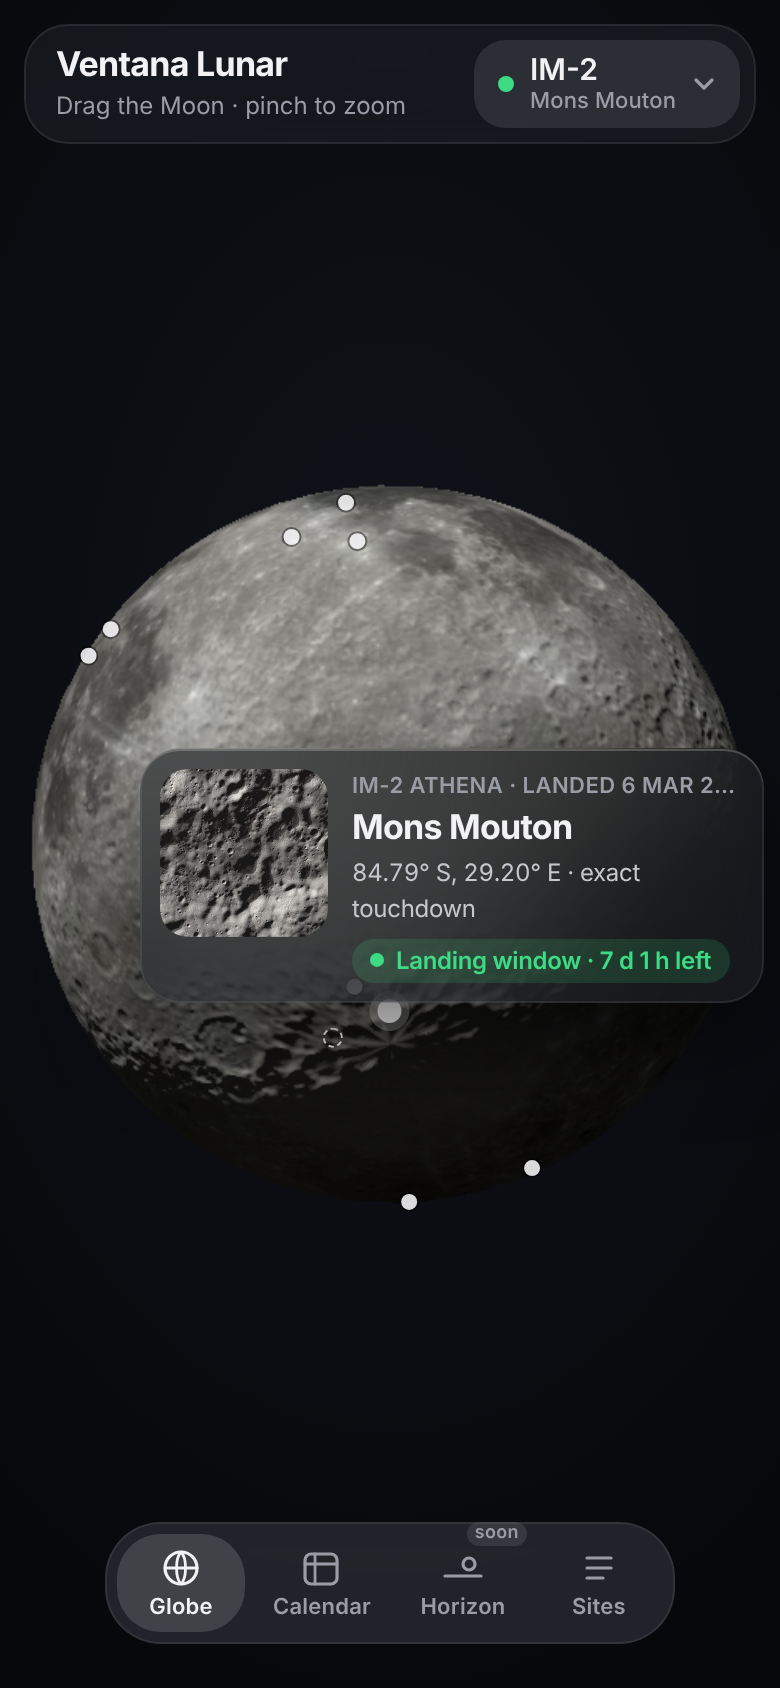
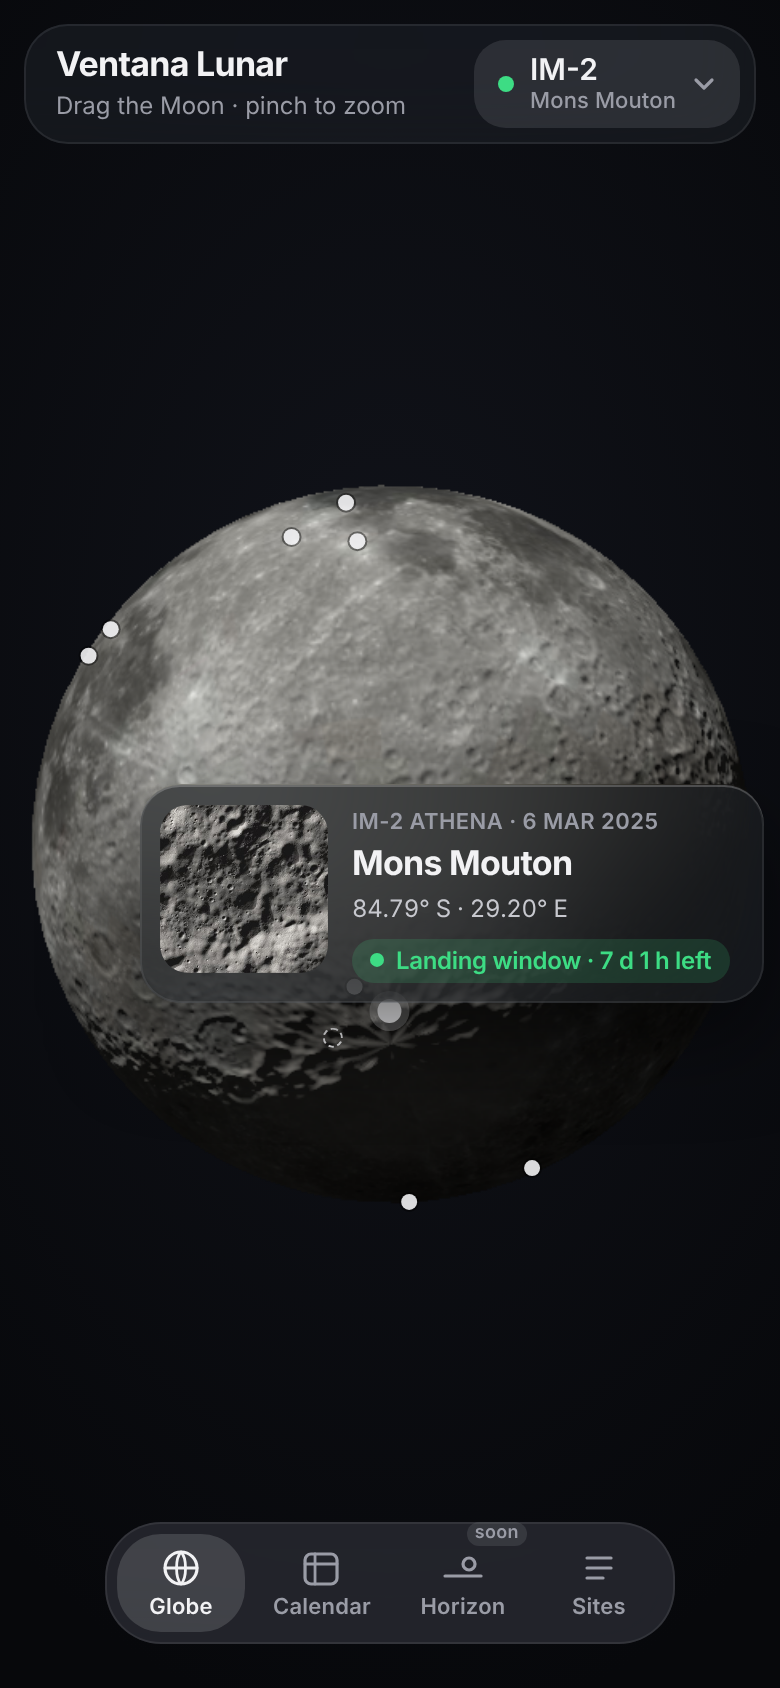
fix(web): one line per row in the phone's compact callout
On a 390 px phone the coordinate line («84.79° S, 29.20° E · exact
touchdown») wrapped to two lines and the mission line was cut with an
ellipsis. The phone now gets its own shorter wording, as canvas A shows:
the mission with the landing date and no «landed» («IM-2 Athena · 6 Mar
2025») and the coordinates alone («84.79° S · 29.20° E»), since the
marker's style already tells how exact the point is. Every text row of
the compact card is one line, with the ellipsis only as a safety net.

Each row holds both wordings and callout.css shows one per layout, so the
text never waits on script for the width. The desktop card keeps its
wording; its point may still take a second line, but only before the
precision: the coordinates are joined with no-break spaces and the lines
are balanced.

Tests: the content's short lines (unit), each phone row a single line box
and IM-2's mission not clipped at 390x844 and 360x780, and the desktop's
long point wrapping only after its coordinates (e2e). The phone callout
evidence is re-captured.

Story: VENT-29

Claude-Session: https://claude.ai/code/session_0112FN4wZEajMCyQCf5HDAev

Changed region(s): [[0.1538, 0.4313, 0.9231, 0.5853]]

diff --git a/tests/e2e/callout.spec.ts b/tests/e2e/callout.spec.ts
@@ -36,6 +36,8 @@ const IM1 = '[data-site-id="im1-odysseus"]';
 const IM2 = '[data-site-id="im2-athena"]';
 const callout = (page: Page) => page.locator('.globe-callout');
 const part = (page: Page, name: string) => callout(page).locator(`.globe-callout__${name}`);
+/** A row's wording for one layout: `wide` on a desktop, `narrow` on a phone. */
+const wording = (page: Page, name: string, layout: 'wide' | 'narrow') => part(page, name).locator(`.globe-callout__${layout}`);
 
 async function open(page: Page): Promise<void> {
   await page.emulateMedia({ reducedMotion: 'reduce', colorScheme: 'dark' });
@@ -78,9 +80,11 @@ test.describe('desktop, 1440x900', () => {
     expect((await image.boundingBox())?.height).toBe(150);
     await expect(part(page, 'badge')).toHaveText('Landing window now');
     await expect(part(page, 'caption')).toHaveText('LOLA · 30 km');
-    await expect(part(page, 'mission')).toHaveText('IM-2 Athena · landed 6 Mar 2025');
+    await expect(wording(page, 'mission', 'wide')).toHaveText('IM-2 Athena · landed 6 Mar 2025');
+    await expect(wording(page, 'mission', 'narrow')).toBeHidden();
     await expect(part(page, 'place')).toHaveText('Mons Mouton');
-    await expect(part(page, 'point')).toHaveText('84.79° S, 29.20° E · exact touchdown');
+    await expect(wording(page, 'point', 'wide')).toHaveText('84.79° S, 29.20° E · exact touchdown');
+    await expect(wording(page, 'point', 'narrow')).toBeHidden();
     await expect(part(page, 'tiles')).toHaveText('Sunset in7 d 1 hEarthset in7 d 10 h');
     // Only the selected site's thumbnail is fetched.
     expect(requested.filter((url) => url.includes('/thumbs/'))).toEqual([expect.stringMatching(/\/thumbs\/im2-athena\.jpg$/)]);
@@ -148,6 +152,65 @@ test.describe('desktop, 1440x900', () => {
     await expect(part(page, 'pill')).toBeVisible();
   });
 });
+
+test.describe('desktop, 1440x900, a long point', () => {
+  test.use({ viewport: { width: 1440, height: 900 } });
+
+  test('wraps the point only before its precision, never inside the coordinates', async ({ page }) => {
+    await open(page);
+    const point = wording(page, 'point', 'wide');
+    const lines = await point.evaluate((el) => {
+      el.textContent = '89.67°\u00a0S,\u00a0129.78°\u00a0E\u00a0· approximate zone, not a landing point';
+      const range = document.createRange();
+      range.selectNodeContents(el);
+      const text = el.textContent;
+      // The text of each line box, from the range of every character.
+      const tops = new Map<number, string>();
+      for (let i = 0; i < text.length; i += 1) {
+        range.setStart(el.firstChild!, i);
+        range.setEnd(el.firstChild!, i + 1);
+        const top = Math.round(range.getBoundingClientRect().top);
+        tops.set(top, (tops.get(top) ?? '') + text[i]);
+      }
+      return [...tops.values()].map((line) => line.replaceAll('\u00a0', ' ').trim());
+    });
+    expect(lines.length).toBeGreaterThan(1);
+    expect(lines[0]!.startsWith('89.67° S, 129.78° E ·')).toBe(true);
+  });
+});
+
+/** The rows of the phone's compact card, each one line box and not clipped. */
+async function phoneRows(page: Page): Promise<{ name: string; lines: number; clipped: boolean }[]> {
+  return callout(page).evaluate((card) =>
+    ['mission', 'place', 'point', 'pill'].map((name) => {
+      const row = card.querySelector<HTMLElement>(`.globe-callout__${name}`)!;
+      const range = document.createRange();
+      range.selectNodeContents(row);
+      const tops = new Set([...range.getClientRects()].filter((r) => r.width > 0).map((r) => Math.round(r.top)));
+      return { name, lines: tops.size, clipped: row.scrollWidth > row.clientWidth };
+    }),
+  );
+}
+
+for (const [width, height] of [[390, 844], [360, 780]] as const) {
+  test.describe(`phone, ${width}x${height}, one line per row`, () => {
+    test.use({ viewport: { width, height }, hasTouch: true, isMobile: true });
+
+    test('the compact callout shows each of its text rows on one line, IM-2 in full', async ({ page }) => {
+      await open(page);
+      await page.getByRole('navigation', { name: 'Views' }).getByRole('button', { name: 'Globe' }).click();
+      await expect(callout(page)).toBeVisible();
+      await expect(wording(page, 'mission', 'narrow')).toHaveText('IM-2 Athena · 6 Mar 2025');
+      await expect(wording(page, 'mission', 'wide')).toBeHidden();
+      await expect(part(page, 'place')).toHaveText('Mons Mouton');
+      await expect(wording(page, 'point', 'narrow')).toHaveText('84.79° S · 29.20° E');
+      await expect(wording(page, 'point', 'wide')).toBeHidden();
+      for (const row of await phoneRows(page)) {
+        expect(row, row.name).toMatchObject({ lines: 1, clipped: false });
+      }
+    });
+  });
+}
 
 test.describe('phone, 390x844', () => {
   test.use({ viewport: { width: 390, height: 844 }, hasTouch: true, isMobile: true });

diff --git a/packages/web/src/callout/callout-content.ts b/packages/web/src/callout/callout-content.ts
@@ -29,10 +29,16 @@
  * it is, the state pill, the two countdowns and the orbital image. The
  * wording is the site card's (`missionLine`, `pointLine`, `siteLabels`)
  * and the countdowns are the widgets' (`widgetsAt`), so the callout never
- * disagrees with them. Pure.
+ * disagrees with them. The phone's compact card gets shorter mission and
+ * point lines, each one line at 360 px. Pure.
  */
 import type { CardSite } from '../card/site-facts';
-import { missionLine, pointLine } from '../card/site-facts';
+import {
+  formatStatusDate,
+  missionLine,
+  pointLine,
+} from '../card/site-facts';
+import { formatCoords } from '../phone/format';
 import { siteLabels } from '../phone/phone-site';
 import type { BodyWidget } from '../phone/widget-types';
 import { widgetsAt, type HoursResult } from '../phone/widgets-loader';
@@ -52,10 +58,17 @@ export interface CalloutContent {
   readonly name: string;
   /** «IM-2 Athena · landed 6 Mar 2025». */
   readonly mission: string;
+  /** The phone's: «IM-2 Athena · 6 Mar 2025». */
+  readonly missionShort: string;
   /** «Mons Mouton». */
   readonly place: string;
-  /** «84.79° S, 29.20° E · exact touchdown». */
+  /** «84.79° S, 29.20° E · exact touchdown», wrapping only before «exact». */
   readonly point: string;
+  /**
+   * The phone's: «84.79° S · 29.20° E». The marker's style already says
+   * how exact the point is.
+   */
+  readonly pointShort: string;
   /** Null: no thumbnail (north of 80° S, or unlisted). */
   readonly image: Thumb | null;
   /** Null until the hours load, or outside the data window. */
@@ -74,6 +87,32 @@ export interface CalloutInput {
   readonly base: string;
 }
 
+/** The mission line without «landed»: a landing's date speaks for it. */
+function shortMissionLine(site: CardSite, lead: string): string {
+  const date = formatStatusDate(site.statusDate ?? '');
+  if (site.status !== 'landed' || !date) return missionLine(site, lead);
+  return [lead, date].filter(Boolean).join(' · ');
+}
+
+/** The point's coordinates alone, «84.79° S · 29.20° E». */
+function shortPointLine(site: CardSite): string {
+  const known = Number.isFinite(site.lat) && Number.isFinite(site.lonEast);
+  if (!known) return pointLine(site);
+  return formatCoords(site.lat, site.lonEast).split(', ').join(' · ');
+}
+
+const NBSP = '\u00a0';
+
+/**
+ * The site card's point line, its coordinates unbreakable and the dot
+ * kept with them, so a narrow card wraps it only before the precision.
+ */
+function widePointLine(site: CardSite): string {
+  const [coords = '', ...precision] = pointLine(site).split(' · ');
+  if (precision.length === 0) return coords;
+  return [coords.replaceAll(' ', NBSP), ...precision].join(`${NBSP}· `);
+}
+
 /** The callout of `input.site` at `input.atMs`. */
 export function calloutContent(input: CalloutInput): CalloutContent {
   const { site, hours, atMs, base } = input;
@@ -84,8 +123,10 @@ export function calloutContent(input: CalloutInput): CalloutContent {
     id: site.id,
     name: site.name,
     mission: missionLine(site, subtitle),
+    missionShort: shortMissionLine(site, subtitle),
     place: title,
-    point: pointLine(site),
+    point: widePointLine(site),
+    pointShort: shortPointLine(site),
     image: thumbOf(site.id, title, base),
     state: calloutState(hours, atMs),
     bodies: ready && { sun: ready.sun, earth: ready.earth },

diff --git a/packages/web/src/callout/callout-dom.ts b/packages/web/src/callout/callout-dom.ts
@@ -41,8 +41,9 @@ export interface CalloutDom {
 }
 
 type TextPart =
-  | 'badge' | 'caption' | 'mission' | 'place' | 'point' | 'pill'
-  | 'sunLabel' | 'sunValue' | 'earthLabel' | 'earthValue';
+  | 'badge' | 'caption' | 'mission' | 'missionShort' | 'place' | 'point'
+  | 'pointShort' | 'pill' | 'sunLabel' | 'sunValue' | 'earthLabel'
+  | 'earthValue';
 
 /** The thumbnails' pixel size (site_thumbs.py), so no layout shift. */
 const THUMB_PX = '320';
@@ -65,6 +66,15 @@ function tile(parent: HTMLElement, tone: string): [HTMLElement, HTMLElement] {
   return [label, part(box, 'b', 'tile-value')];
 }
 
+/**
+ * A row with the desktop's wording and the phone's, one shown per layout
+ * by callout.css, so the text never waits on script for the width.
+ */
+function row(parent: HTMLElement, name: string): [HTMLElement, HTMLElement] {
+  const line = part(parent, 'p', name);
+  return [part(line, 'span', 'wide'), part(line, 'span', 'narrow')];
+}
+
 /** Builds the card and its leader, hidden until placed. */
 export function calloutDom(): CalloutDom {
   const card = document.createElement('div');
@@ -77,19 +87,19 @@ export function calloutDom(): CalloutDom {
   const [badge, caption] = [part(media, 'span', 'badge'), part(media, 'span', 'caption')];
   part(card, 'span', 'glyph').setAttribute('aria-hidden', 'true');
   const body = part(card, 'div', 'body');
-  const [mission, place] = [part(body, 'p', 'mission'), part(body, 'p', 'place')];
-  const [point, pill] = [part(body, 'p', 'point'), part(body, 'span', 'pill')];
-  const tiles = part(body, 'div', 'tiles');
+  const [mission, missionShort] = row(body, 'mission');
+  const place = part(body, 'p', 'place');
+  const [point, pointShort] = row(body, 'point');
+  const [pill, tiles] = [part(body, 'span', 'pill'), part(body, 'div', 'tiles')];
   const [sunLabel, sunValue] = tile(tiles, 'sun');
   const [earthLabel, earthValue] = tile(tiles, 'earth');
   const leader = document.createElement('span');
   leader.className = 'globe-callout-leader';
   leader.setAttribute('aria-hidden', 'true');
-  const text = {
-    badge, caption, mission, place, point, pill,
+  return { card, leader, img, text: {
+    badge, caption, mission, missionShort, place, point, pointShort, pill,
     sunLabel, sunValue, earthLabel, earthValue,
-  };
-  return { card, leader, img, text };
+  } };
 }
 
 /** Writes `content` into the card. */
@@ -105,7 +115,9 @@ export function renderCallout(dom: CalloutDom, content: CalloutContent): void {
   img.alt = image?.alt ?? '';
   const words = {
     badge: state?.badge ?? '', caption: image?.caption ?? '',
-    mission: content.mission, place: content.place, point: content.point,
+    mission: content.mission, missionShort: content.missionShort,
+    place: content.place,
+    point: content.point, pointShort: content.pointShort,
     pill: state?.pill ?? '',
     sunLabel: bodies?.sun.label ?? '', sunValue: bodies?.sun.value ?? '',
     earthLabel: bodies?.earth.label ?? '', earthValue: bodies?.earth.value ?? '',

diff --git a/packages/web/src/styles/callout.css b/packages/web/src/styles/callout.css
@@ -147,14 +147,34 @@
   margin: 0;
 }
 
+/*
+ * On a desktop the name and the point may take a second line, broken only
+ * between words: the point's coordinates hold together (callout-content.ts
+ * joins them with no-break spaces) and the lines are balanced.
+ */
+.globe-callout__place,
+.globe-callout__point {
+  text-wrap: balance;
+}
+
+/* One line, the ellipsis only a safety net: the mission row here, and every
+ * text row of the phone's compact card. */
 .globe-callout__mission {
   overflow: hidden;
+  text-overflow: ellipsis;
+  white-space: nowrap;
+}
+
+/* Each row holds the desktop's wording and the phone's shorter one. */
+.globe-callout__narrow {
+  display: none;
+}
+
+.globe-callout__mission {
   font-size: 0.6875rem;
   font-weight: 600;
   letter-spacing: 0.02em;
   text-transform: uppercase;
-  text-overflow: ellipsis;
-  white-space: nowrap;
   color: var(--text-muted);
 }
 
@@ -293,8 +313,23 @@
   }
 
   .globe-callout__body {
+    flex: 1;
     justify-content: center;
     padding: 0;
+  }
+
+  .globe-callout__body p {
+    overflow: hidden;
+    text-overflow: ellipsis;
+    white-space: nowrap;
+  }
+
+  .globe-callout__wide {
+    display: none;
+  }
+
+  .globe-callout__narrow {
+    display: inline;
   }
 
   .globe-callout__place {

diff --git a/packages/web/tests/globe-callout.test.ts b/packages/web/tests/globe-callout.test.ts
@@ -86,7 +86,19 @@ describe('callout content', () => {
     expect(im2.name).toBe('Mons Mouton (IM-2 Athena)');
     expect(im2.mission).toBe('IM-2 Athena · landed 6 Mar 2025');
     expect(im2.place).toBe('Mons Mouton');
-    expect(im2.point).toBe('84.79° S, 29.20° E · exact touchdown');
+    // No-break spaces hold the coordinates and the dot together.
+    expect(im2.point).toBe('84.79°\u00a0S,\u00a029.20°\u00a0E\u00a0· exact touchdown');
+    expect(im2.point.replaceAll('\u00a0', ' ')).toBe('84.79° S, 29.20° E · exact touchdown');
+  });
+
+  it('gives the phone shorter lines: the landing date without «landed», the coordinates alone', () => {
+    const im2 = content(IM2, READY, 150);
+    expect(im2.missionShort).toBe('IM-2 Athena · 6 Mar 2025');
+    expect(im2.pointShort).toBe('84.79° S · 29.20° E');
+    const planned = content({ ...IM2, status: 'planned', statusDate: 'NET 2027' }, READY, 150);
+    expect(planned.missionShort).toBe(planned.mission);
+    const unknown = content({ ...IM2, lat: Number.NaN }, READY, 150);
+    expect([unknown.point, unknown.pointShort]).toEqual(['Coordinates not in this build', 'Coordinates not in this build']);
   });
 
   it.each([
